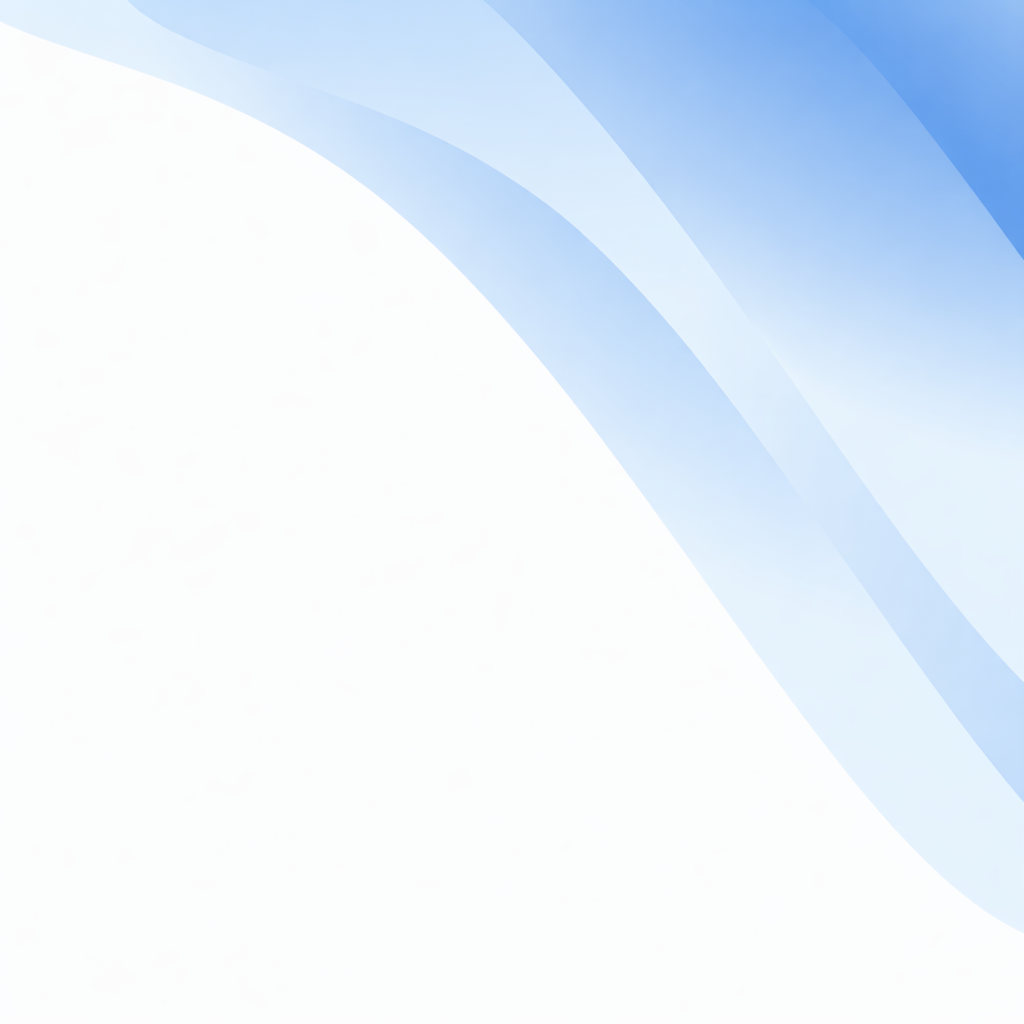
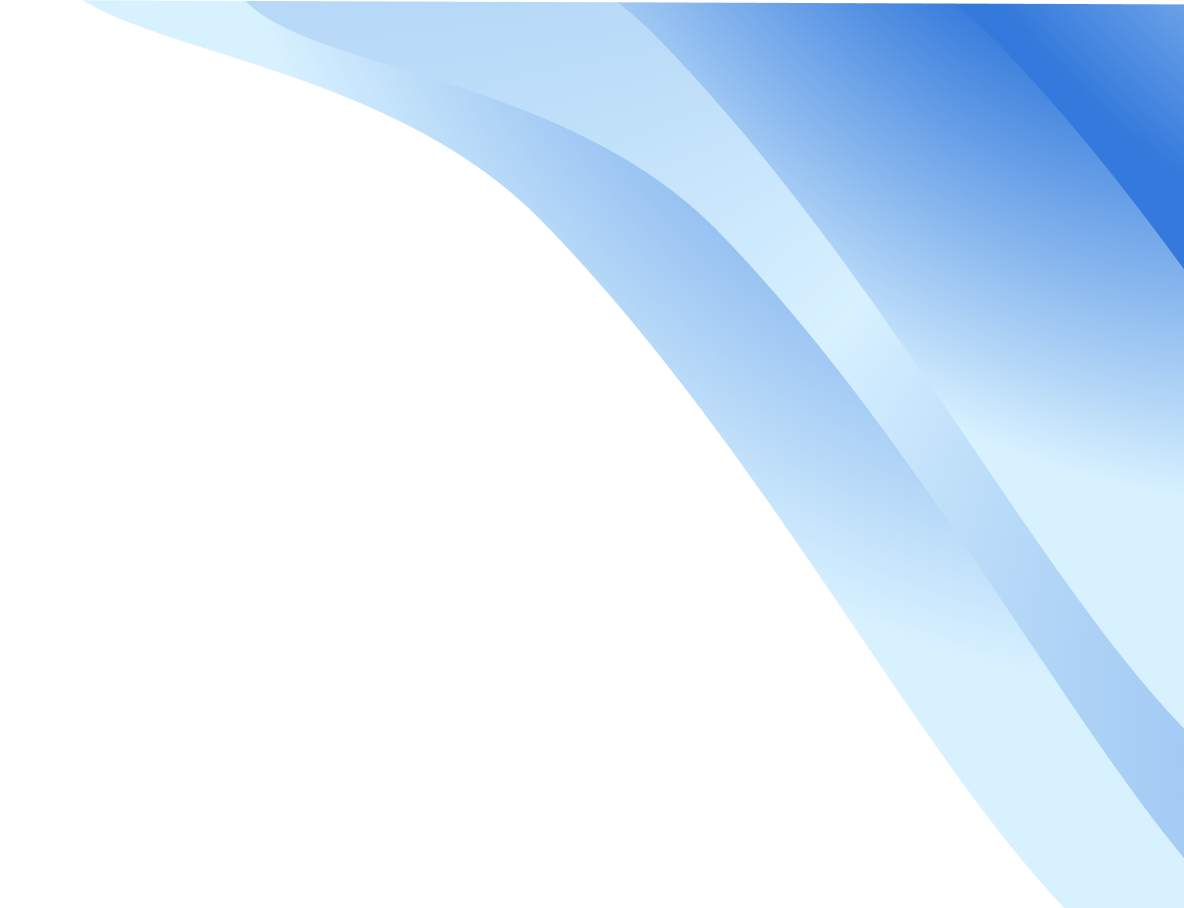
Title adjustments (#160)

Changed region(s): [[0.0, 0.0, 1.0, 1.0], [0.5, 0.0, 1.0, 0.5242]]

diff --git a/projects/ngx/declarative-ui/dashboard/dashboard/dashboard.component.spec.ts b/projects/ngx/declarative-ui/dashboard/dashboard/dashboard.component.spec.ts
@@ -115,15 +115,15 @@ describe('Dashboard', () => {
     editButton?.dispatchEvent(new Event('click'));
     fixture.detectChanges();
 
-    const addCardButton = root(fixture).querySelector('#add-card-btn');
+    const editCardsButton = root(fixture).querySelector('#edit-cards-btn');
 
     expect(component.editMode()).toBe(true);
-    expect(addCardButton).not.toBeNull();
+    expect(editCardsButton).not.toBeNull();
     expect(
       root(fixture).querySelectorAll('.mfp-dashboard__edit-bar ui5-button'),
     ).toHaveLength(2);
 
-    addCardButton?.dispatchEvent(new Event('click'));
+    editCardsButton?.dispatchEvent(new Event('click'));
     fixture.detectChanges();
 
     expect(component.cardDialogOpen()).toBe(true);
@@ -386,5 +386,109 @@ describe('Dashboard', () => {
 
     expect(component.cards()).toEqual([{ id: 'card-2', component: 'mfp-b' }]);
     expect(component.cardDialogOpen()).toBe(false);
+  });
+
+  describe('title and description rendering', () => {
+    it('renders title inside a ui5-title with level H3', () => {
+      const { fixture } = setup();
+
+      fixture.componentRef.setInput('config', { title: 'My Dashboard' });
+      fixture.detectChanges();
+
+      const titleEl = root(fixture).querySelector('ui5-title[level="H3"]');
+      expect(titleEl).not.toBeNull();
+      expect(titleEl?.textContent?.trim()).toBe('My Dashboard');
+    });
+
+    it('renders description inside a ui5-title with level H5', () => {
+      const { fixture } = setup();
+
+      fixture.componentRef.setInput('config', {
+        title: 'T',
+        description: 'Platform status',
+      });
+      fixture.detectChanges();
+
+      const descEl = root(fixture).querySelector('ui5-title[level="H5"]');
+      expect(descEl).not.toBeNull();
+      expect(descEl?.textContent?.trim()).toBe('Platform status');
+    });
+
+    it('renders safe HTML markup in the title', () => {
+      const { fixture } = setup();
+
+      fixture.componentRef.setInput('config', { title: 'Hello <b>World</b>' });
+      fixture.detectChanges();
+
+      const span = root(fixture).querySelector('ui5-title[level="H3"] span');
+      expect(span?.querySelector('b')).not.toBeNull();
+      expect(span?.querySelector('b')?.textContent).toBe('World');
+    });
+
+    it('renders safe HTML markup in the description', () => {
+      const { fixture } = setup();
+
+      fixture.componentRef.setInput('config', {
+        title: 'T',
+        description: 'Status in <b>real time</b>.',
+      });
+      fixture.detectChanges();
+
+      const span = root(fixture).querySelector('ui5-title[level="H5"] span');
+      expect(span?.querySelector('b')).not.toBeNull();
+      expect(span?.querySelector('b')?.textContent).toBe('real time');
+    });
+
+    it('strips dangerous script tags from the title', () => {
+      const { fixture } = setup();
+
+      fixture.componentRef.setInput('config', {
+        title: 'Safe<script>alert(1)</script>',
+      });
+      fixture.detectChanges();
+
+      const span = root(fixture).querySelector('ui5-title[level="H3"] span');
+      expect(span?.querySelector('script')).toBeNull();
+      expect(span?.textContent).toContain('Safe');
+    });
+
+    it('strips dangerous script tags from the description', () => {
+      const { fixture } = setup();
+
+      fixture.componentRef.setInput('config', {
+        title: 'T',
+        description: 'Info<script>alert(1)</script>',
+      });
+      fixture.detectChanges();
+
+      const span = root(fixture).querySelector('ui5-title[level="H5"] span');
+      expect(span?.querySelector('script')).toBeNull();
+      expect(span?.textContent).toContain('Info');
+    });
+
+    it('does not render the description block when description is absent', () => {
+      const { fixture } = setup();
+
+      fixture.componentRef.setInput('config', { title: 'T' });
+      fixture.detectChanges();
+
+      expect(root(fixture).querySelector('ui5-title[level="H5"]')).toBeNull();
+    });
+  });
+
+  describe('editCardsButton', () => {
+    it('uses buttonsSettings.editCardsButton overrides', () => {
+      const { fixture, component } = setup();
+
+      fixture.componentRef.setInput('config', {
+        title: 'T',
+        buttonsSettings: {
+          editCardsButton: { text: 'Add Card', design: 'Emphasized' },
+        },
+      });
+
+      expect(component.editCardsButton().text).toBe('Add Card');
+      expect(component.editCardsButton().design).toBe('Emphasized');
+    });
   });
 });

diff --git a/projects/ngx/declarative-ui/dashboard/dashboard/dashboard.component.ts b/projects/ngx/declarative-ui/dashboard/dashboard/dashboard.component.ts
@@ -11,6 +11,7 @@ import {
   Injector,
   OnDestroy,
   OnInit,
+  SecurityContext,
   Type,
   ViewEncapsulation,
   afterNextRender,
@@ -23,11 +24,11 @@ import {
   signal,
   viewChild,
 } from '@angular/core';
+import { DomSanitizer, SafeHtml } from '@angular/platform-browser';
 import { Button } from '@fundamental-ngx/ui5-webcomponents/button';
 import { Menu } from '@fundamental-ngx/ui5-webcomponents/menu';
 import { MenuItem } from '@fundamental-ngx/ui5-webcomponents/menu-item';
 import { MenuSeparator } from '@fundamental-ngx/ui5-webcomponents/menu-separator';
-import { Text } from '@fundamental-ngx/ui5-webcomponents/text';
 import { Title } from '@fundamental-ngx/ui5-webcomponents/title';
 import '@ui5/webcomponents-icons/dist/action-settings.js';
 import '@ui5/webcomponents-icons/dist/menu2.js';
@@ -53,7 +54,6 @@ document.body.classList.add('ui5-content-density-compact');
     MenuItem,
     MenuSeparator,
     Title,
-    Text,
   ],
   templateUrl: './dashboard.component.html',
   styleUrl: './dashboard.component.scss',
@@ -86,10 +86,25 @@ export class Dashboard implements OnInit, OnDestroy {
   private sectionsSnapshot: SectionConfig[] = [];
   private cardsSnapshot: CardConfig[] = [];
   private gridStackItems = viewChild.required<GridstackComponent>('grid');
-  private addCardBtn = viewChild<Button>('addCardBtn');
+  private addCardBtn = viewChild<Button>('editCardsBtn');
   private resizeObserver?: ResizeObserver;
   private readonly hostEl = inject(ElementRef<HTMLElement>);
   private readonly injector = inject(Injector);
+  private readonly sanitizer = inject(DomSanitizer);
+
+  protected safeTitle = computed((): SafeHtml => {
+    const clean =
+      this.sanitizer.sanitize(SecurityContext.HTML, this.config().title) ?? '';
+    return this.sanitizer.bypassSecurityTrustHtml(clean);
+  });
+
+  protected safeDescription = computed((): SafeHtml | null => {
+    const desc = this.config().description;
+    if (!desc) return null;
+
+    const clean = this.sanitizer.sanitize(SecurityContext.HTML, desc) ?? '';
+    return this.sanitizer.bypassSecurityTrustHtml(clean);
+  });
 
   protected gridOptions = computed(
     (): GridStackOptions => ({
@@ -122,12 +137,12 @@ export class Dashboard implements OnInit, OnDestroy {
     ...this.config().buttonsSettings?.editViewButton,
   }));
 
-  addCardButton = computed(() => ({
+  editCardsButton = computed(() => ({
     icon: '',
     design: 'Default' as const,
     tooltip: '',
     text: 'Edit Cards',
-    ...this.config().buttonsSettings?.addCardButton,
+    ...this.config().buttonsSettings?.editCardsButton,
   }));
 
   sectionCards = computed(() => {

diff --git a/projects/ngx/declarative-ui/dashboard/dashboard/dashboard.component.html b/projects/ngx/declarative-ui/dashboard/dashboard/dashboard.component.html
@@ -3,26 +3,28 @@
     <div class="mfp-dashboard__topbar-row">
       <div class="mfp-dashboard__header">
         @if (config().title) {
-          <ui5-title level="H2" size="H2" wrapping-type="Normal">{{
-            config().title
-          }}</ui5-title>
+          <ui5-title level="H3" size="H3" wrapping-type="Normal">
+            <span [innerHTML]="safeTitle()"></span>
+          </ui5-title>
         }
         @if (config().description) {
-          <ui5-text>{{ config().description }}</ui5-text>
+          <ui5-title level="H5" size="H5" wrapping-type="Normal">
+            <span class="mfp-dashboard__description" [innerHTML]="safeDescription()"></span>
+          </ui5-title>
         }
       </div>
 
       <div class="mfp-dashboard__toolbar">
         @if (editMode()) {
           <ui5-button
-            #addCardBtn
-            id="add-card-btn"
-            [accessibleName]="addCardButton().text || addCardButton().tooltip || 'Edit Cards'"
-            [design]="addCardButton().design"
-            [icon]="addCardButton().icon"
-            [tooltip]="addCardButton().tooltip"
+            #editCardsBtn
+            id="edit-cards-btn"
+            [accessibleName]="editCardsButton().text || editCardsButton().tooltip || 'Edit Cards'"
+            [design]="editCardsButton().design"
+            [icon]="editCardsButton().icon"
+            [tooltip]="editCardsButton().tooltip"
             (click)="openCardPanel()"
-            >{{ addCardButton().text }}</ui5-button
+            >{{ editCardsButton().text }}</ui5-button
           >
         } @else if (compactToolbar()) {
           <ui5-button

diff --git a/projects/ngx/declarative-ui/stories/dashboard.stories.ts b/projects/ngx/declarative-ui/stories/dashboard.stories.ts
@@ -38,7 +38,7 @@ const CUSTOM_ACTIONS: ButtonSettings[] = [
 const SAMPLE_CONFIG: DashboardConfig = {
   title: 'System Overview',
   description:
-    'Monitor your platform metrics, traffic and service health in real time.',
+    'Monitor your platform metrics, traffic and service health in <b>real time</b>.',
   backgroundImageUrl: '/background-lightblue.png',
   customActions: CUSTOM_ACTIONS,
   editable: true,
@@ -292,7 +292,7 @@ export const CustomButtonSettings: Story = {
           design: 'Default',
           tooltip: '',
         },
-        addCardButton: {
+        editCardsButton: {
           text: 'Add Card',
           icon: '',
           design: 'Emphasized',

diff --git a/projects/ngx/declarative-ui/dashboard/models/dashboard.model.ts b/projects/ngx/declarative-ui/dashboard/models/dashboard.model.ts
@@ -1,5 +1,8 @@
 import { ButtonSettings } from '../../models/ui-definition';
 
+
+
+
 export const CARD_TYPES = {
   WC: 'wc',
   ANGULAR: 'angular',
@@ -64,8 +67,8 @@ export interface SectionConfig {
 export interface DashboardButtonsSettings {
   /** Partial override merged on top of the Edit View button defaults. */
   editViewButton?: Partial<ButtonSettings>;
-  /** Partial override merged on top of the Add Card button defaults. */
-  addCardButton?: Partial<ButtonSettings>;
+  /** Partial override merged on top of the Edit Cards button defaults. */
+  editCardsButton?: Partial<ButtonSettings>;
 }
 
 /** Top-level configuration for the `<mfp-dashboard>` component. */

diff --git a/projects/ngx/declarative-ui/dashboard/dashboard/dashboard.component.scss b/projects/ngx/declarative-ui/dashboard/dashboard/dashboard.component.scss
@@ -3,12 +3,13 @@
 mfp-dashboard,
 mfp-wc-dashboard {
   display: block;
+  flex: 1;
   margin: 0;
   padding: 0;
   min-height: 100%;
   background: var(--sapShellColor, #354a5e);
-  background-size: cover;
-  background-position: center;
+  background-size: 100% auto;
+  background-position: top center;
   background-repeat: no-repeat;
   background-attachment: local;
 }
@@ -56,6 +57,16 @@ mfp-wc-dashboard {
   display: flex;
   flex-direction: column;
   gap: 0.25rem;
+}
+
+.mfp-dashboard__description {
+  font-weight: normal;
+  font-family: var(--sapFontFamily);
+
+  b,
+  strong {
+    font-family: var(--sapFontBoldFamily);
+  }
 }
 
 .mfp-dashboard__toolbar {

diff --git a/docs/dashboard.md b/docs/dashboard.md
@@ -248,6 +248,8 @@ interface DashboardConfig {
 }
 ```
 
+`title` and `description` accept plain strings or HTML markup. Safe HTML tags (e.g. `<b>`, `<em>`, `<a>`) are rendered; dangerous content such as `<script>` tags is stripped automatically. The title is rendered as an `<h3>` heading and the description as an `<h5>` heading.
+
 ### `DashboardButtonSettings`
 
 Controls the appearance of the two built-in toolbar buttons. Both fields accept a `Partial<ButtonSettings>` that is **merged on top of the defaults** — any property you omit keeps its default value.
@@ -255,14 +257,14 @@ Controls the appearance of the two built-in toolbar buttons. Both fields accept 
 ```ts
 interface DashboardButtonsSettings {
   editViewButton?: Partial<ButtonSettings>;
-  addCardButton?: Partial<ButtonSettings>;
+  editCardsButton?: Partial<ButtonSettings>;
 }
 ```
 
-| Button           | Default `icon`    | Default `design` | Default `tooltip` | Default `text`  |
-| ---------------- | ----------------- | ---------------- | ----------------- | --------------- |
-| `editViewButton` | `action-settings` | `Transparent`    | `Edit View`       | _(empty — icon only)_ |
-| `addCardButton`  | _(none)_          | `Default`        | _(none)_          | `Edit Cards`    |
+| Button            | Default `icon`    | Default `design` | Default `tooltip` | Default `text`  |
+| ----------------- | ----------------- | ---------------- | ----------------- | --------------- |
+| `editViewButton`  | `action-settings` | `Transparent`    | `Edit View`       | _(empty — icon only)_ |
+| `editCardsButton` | _(none)_          | `Default`        | _(none)_          | `Edit Cards`    |
 
 **Example — text-only buttons without icons:**
 
@@ -277,7 +279,7 @@ const config: DashboardConfig = {
       design: 'Default',
       tooltip: '',
     },
-    addCardButton: {
+    editCardsButton: {
       text: 'Edit Cards',
       icon: '',
       design: 'Emphasized',
